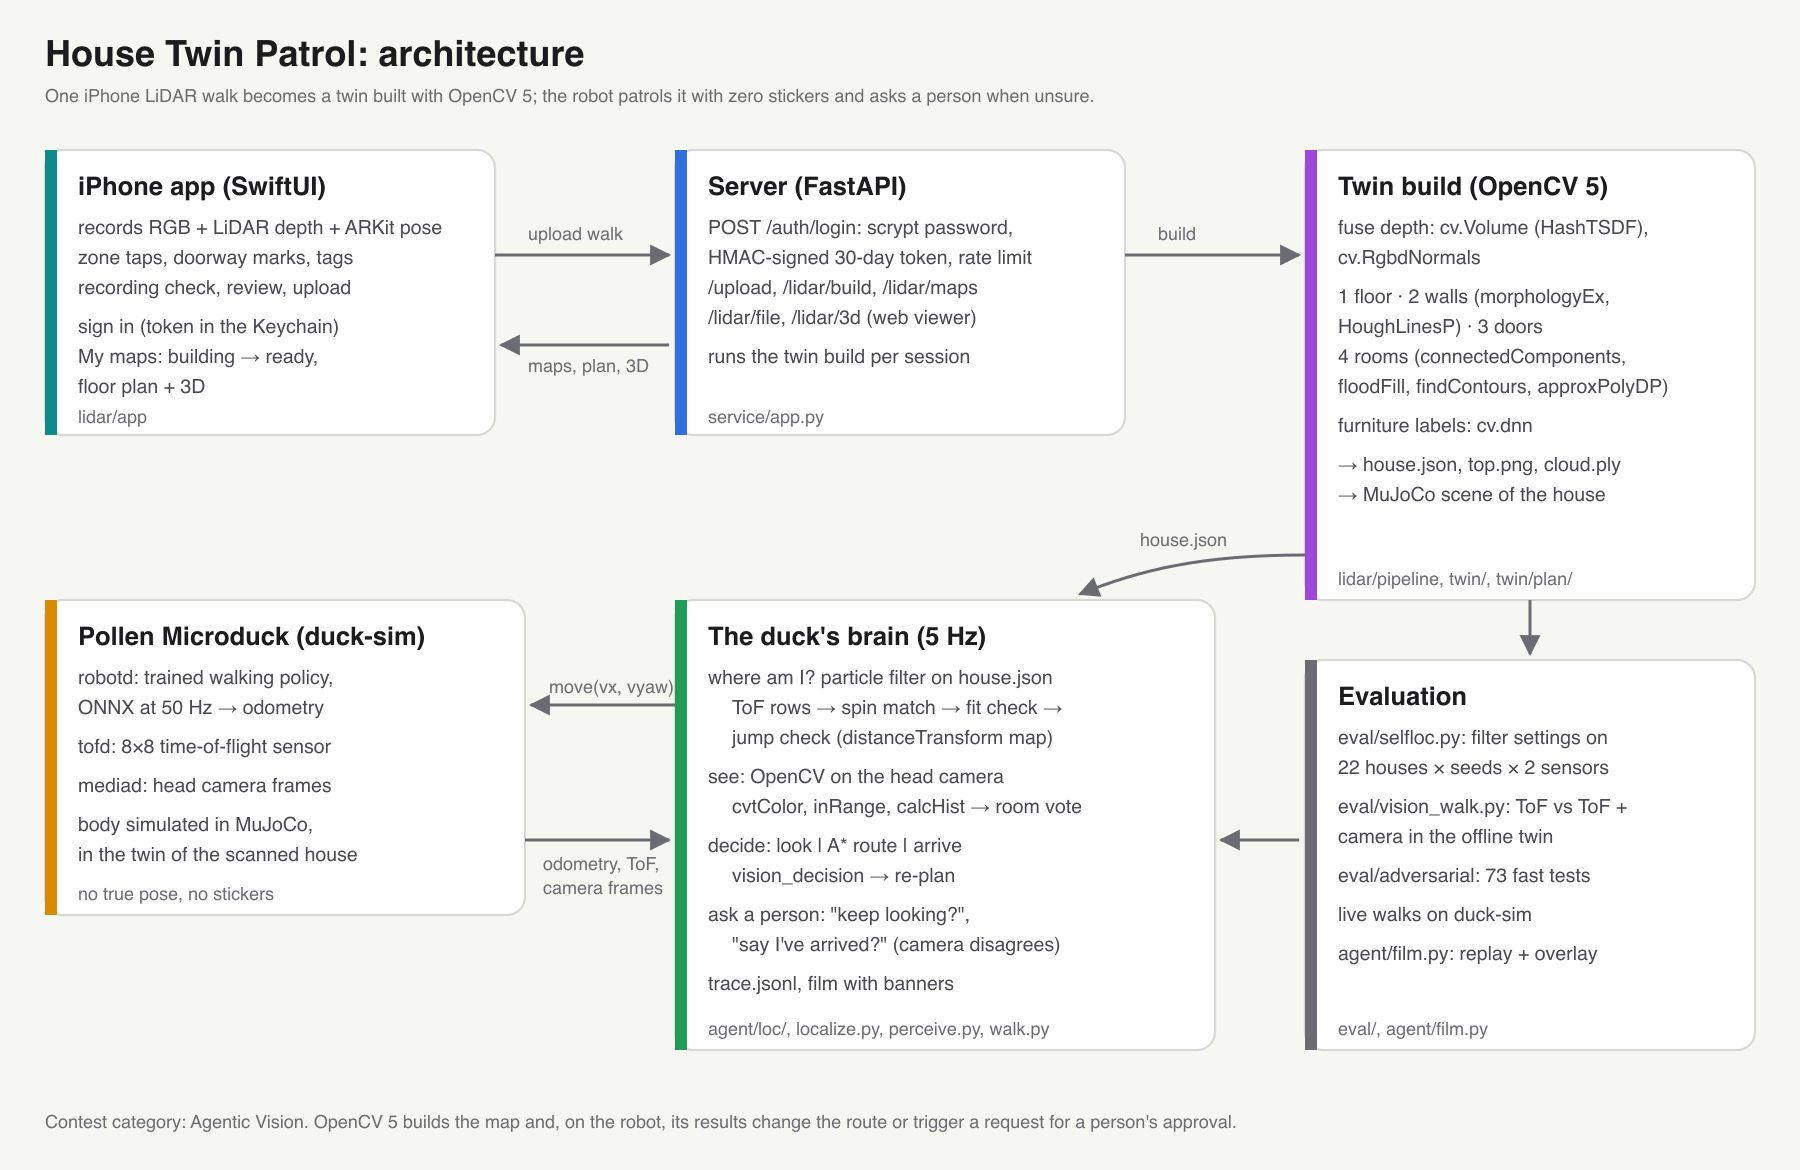
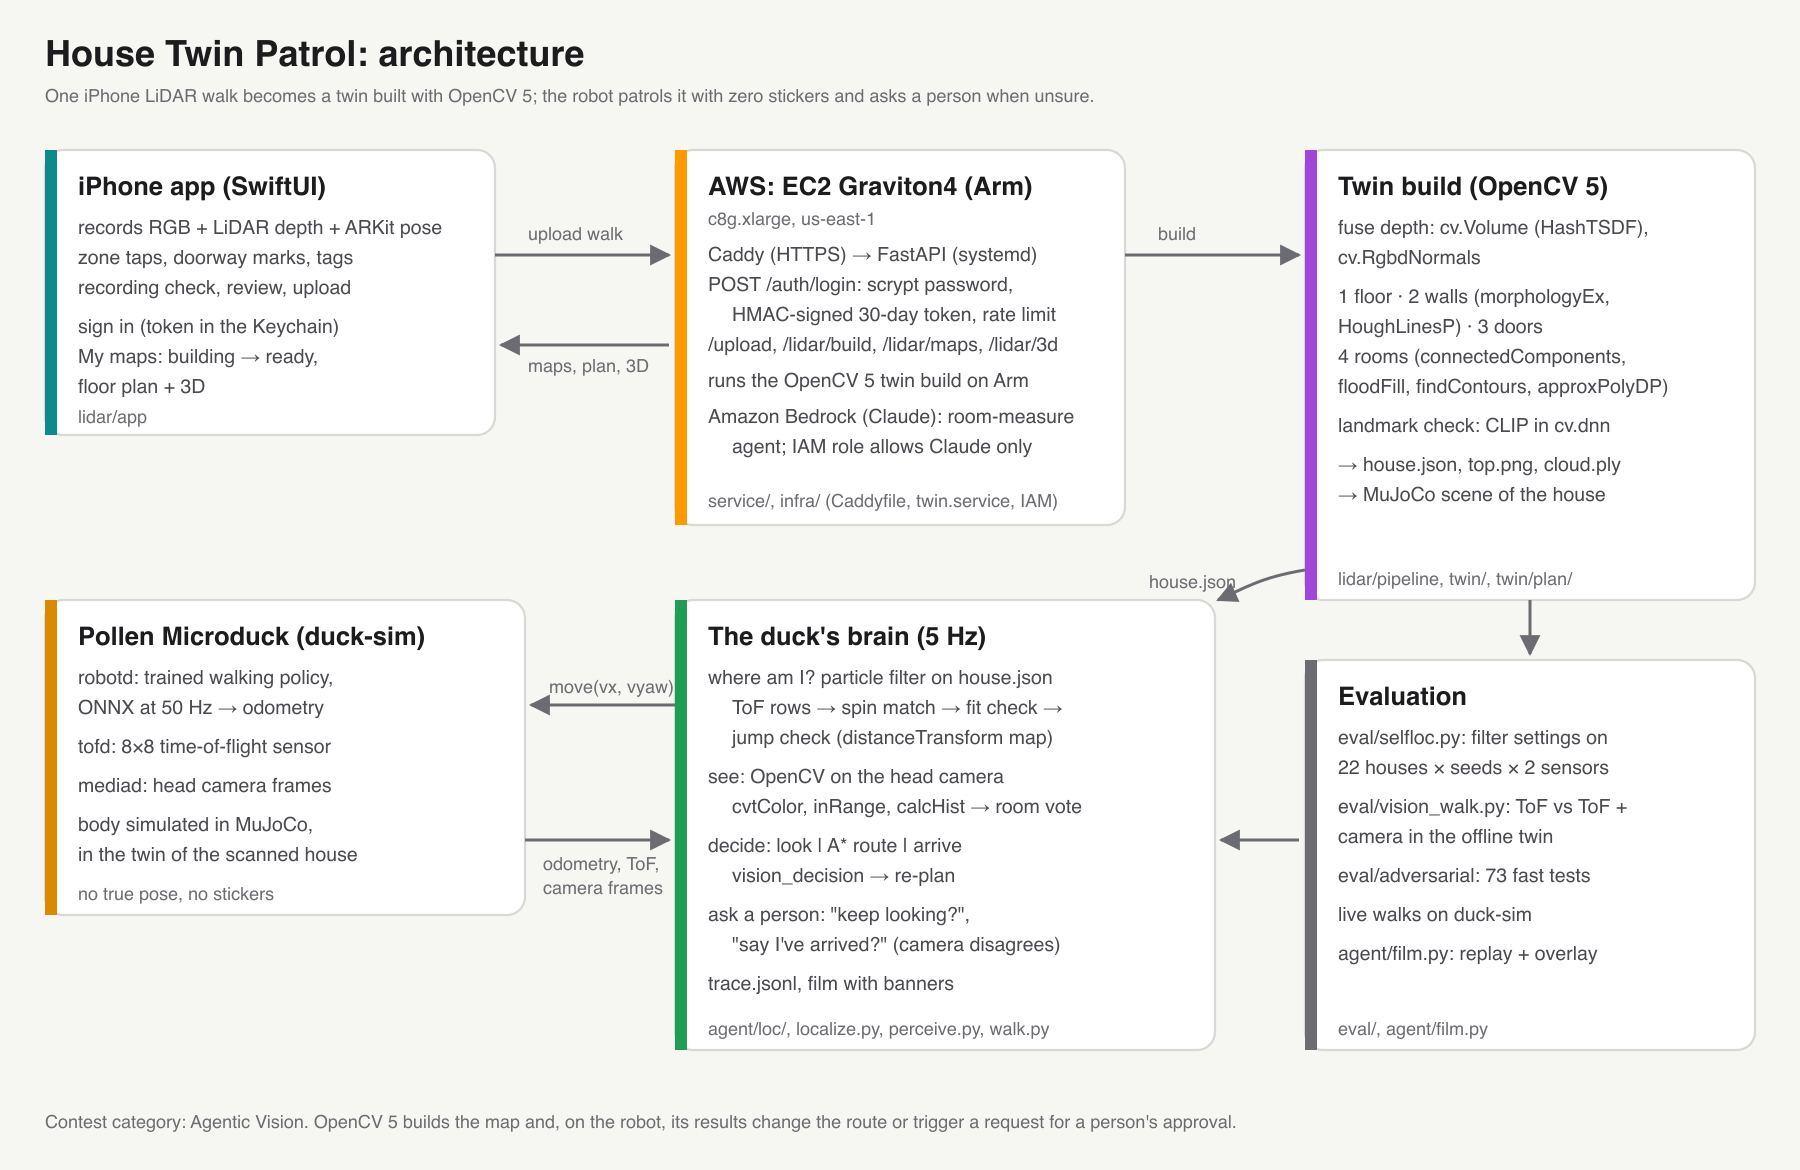
Technical report (REPORT.md), AWS in the architecture diagram, pinned lock files, team intro in the video script

diff --git a/REPORT.md b/REPORT.md
@@ -1,0 +1,152 @@
+# House Twin Patrol: technical report
+
+OpenCV AI Competition 2026 · path: **Agentic Vision with OpenCV 5** (not COOL) · repo: https://github.com/laughtt/house-twin-patrol
+
+## Team
+- **Team name:** Jose Mauricio Carpio (solo entry)
+- **Jose Mauricio Carpio**: design, code, home scans, robot integration, evaluation. *Past hackathons and competitions:
+  (to add).*
+
+## 1. Problem and real-world impact
+Home robots get lost in real homes. Every home is different, robots can't practise in yours before they arrive, and
+the usual fixes (stickers on the walls, beacons, a long mapping run by the robot itself) are what people don't want to
+do. Small robots like Pollen's Microduck (shipping end of 2026) have only an 8×8 depth sensor and a small camera.
+
+House Twin Patrol turns **one walk with an iPhone** into a digital twin of the home (floor plan, rooms, doors, 3D), and
+gives the robot a brain that patrols that home **with zero stickers**: it finds itself, goes to each room, checks
+itself with OpenCV on its own camera, and asks a person when it is unsure.
+
+Impact: a robot that knows "this is the bedroom" from day one can do check-in rounds for someone living alone, go to
+a named room on request, or watch for problems, without the owner mapping or marking anything. The same twin lets
+robot developers test in a copy of a real home before shipping.
+
+## 2. Users and beneficiaries
+- People living alone or with reduced mobility, and their families: a home robot that can do rounds and reach a named
+  room reliably.
+- Owners of small home robots (Microduck and similar) who won't put markers on their walls.
+- Robot developers who need realistic homes to test in (the twin is a MuJoCo scene of the scanned home).
+
+## 3. Architecture
+![Architecture](docs/architecture.svg)
+
+1. **iPhone app** (`lidar/app`, SwiftUI): records RGB, LiDAR depth and the ARKit pose with room taps; sign in; upload;
+   My maps (building → ready, floor plan, 3D).
+2. **Server on AWS** (`service/`, `infra/`): FastAPI behind Caddy (HTTPS) on EC2 Graviton4; login with signed tokens;
+   runs the twin build for each upload.
+3. **Twin build** (`lidar/pipeline`, `twin/`): OpenCV 5 turns the walk into `house.json`, a floor plan and a 3D cloud,
+   and a MuJoCo scene of the home.
+4. **The duck's brain** (`agent/`): the agent loop below, 5 times a second.
+5. **The robot**: Pollen's real robot software (`robotd` with its trained walking policy, `tofd`, `mediad`) driving a
+   simulated body in the MuJoCo twin. The brain only sees odometry, the 8×8 ToF and the camera.
+
+### The agent loop (Agentic Vision)
+![Agent loop on the live walk](docs/agent_loop.gif)
+
+| step | what happens | code |
+|---|---|---|
+| sense | odometry, 8×8 ToF frame, head-camera frame | `agent/walk.py` |
+| locate | particle filter on the twin: ToF rows → spin match (a full turn matched against every place and heading) → fit check (do the zones fit the map from the estimate?) → jump check (a far jump from the trusted pose is a false positive) | `agent/loc/`, `agent/localize.py` |
+| see | OpenCV 5 on the frame: HSV histogram → which room the colours look like → a vote in the filter | `agent/perceive.py` |
+| notice | if the frame changed the decision (look ↔ go, the believed room, the route start), log `vision_decision` and re-plan | `agent/walk.py` |
+| decide | look around / follow an A* route / declare arrival | `agent/walk.py`, `agent/loop.py` |
+| ask | lost 20 s → "keep looking?"; at a goal where the camera's colours name another room → "say I've arrived?" | `agent/walk.py` |
+| act | velocity command to the walking policy | `agent/duck_rpc.py` |
+
+Workflow diagram and trace format: `agent/README.md`.
+
+## 4. OpenCV 5 implementation
+| where | OpenCV 5 | for |
+|---|---|---|
+| depth fusion | `cv.Volume` (HashTSDF), `cv.RgbdNormals` | fuse the LiDAR frames into one cloud with normals |
+| floor | `cv.circle` | the walk's footprint |
+| walls | `cv.morphologyEx`, `cv.dilate`, `cv.HoughLinesP`, `cv.line` | vertical surfaces 1 m tall, glass bridged by Hough lines |
+| rooms | `cv.connectedComponents`, `cv.floodFill`, `cv.findContours`, `cv.approxPolyDP`, `cv.fillPoly` | the floor with doors shut falls apart into rooms |
+| landmarks | `cv.dnn.readNet` (CLIP, ImageNet classifier) | what each candidate object is, whether it moves |
+| the duck's map | `cv.distanceTransform` | distance to the nearest wall: fast ray casts, route clearance |
+| the duck's eye | `cv.cvtColor`, `cv.inRange`, `cv.calcHist` | room colour vote each frame |
+| optional | ArUco `detectMarkers`, `cv.solvePnPGeneric` (IPPE) | marker fixes (`--stickers`), off by default |
+| demo assets | `cv.VideoWriter`, drawing | the film, GIFs, app icon |
+
+Pinned: `opencv-python-headless==5.0.0.93` (`requirements.lock`, `service/requirements.lock`).
+
+## 5. AWS deployment
+| component | service | notes |
+|---|---|---|
+| server | **EC2 Graviton4** (Arm), c8g.xlarge, us-east-1 | FastAPI under systemd (`infra/twin.service`), Caddy auto-HTTPS (`infra/Caddyfile`) at `game.adtomic.co` |
+| twin build | same instance | OpenCV 5 (aarch64 wheels) runs the full build per upload |
+| language model | **Amazon Bedrock** (Claude) | the markerless room-measure agent (`service/v0`); IAM instance role allowing Claude models only (`infra/bedrock-*.json`, `infra/bedrock-role.sh`) |
+| auth | in the app server | scrypt password hash, HMAC-SHA256 30-day tokens, rate limit on failed logins (`service/app.py`, `service/test_auth.py`) |
+
+Not used (yet): S3 for uploads (they stay on the instance disk), autoscaling, CloudWatch dashboards. COOL was not
+pursued: the build runs on stock OpenCV 5 on Graviton, with no COOL baseline measured.
+
+**Judge access:** web endpoint `https://game.adtomic.co` (app login: user `judge`, password in the submission form);
+code and instructions in this repo; a live screen-share of the robot walk on request.
+
+## 6. Build, deploy, test
+```
+scripts/demo.sh offline              # self-location sandbox, camera test, fast tests (no robot)
+scripts/demo.sh live [house] [--ask] # live walk on Pollen's duck-sim with the camera, then the film
+scripts/demo.sh server               # the server locally
+scripts/demo.sh app                  # the Xcode project
+```
+Dependencies: `requirements.lock` (sim, brain, eval), `service/requirements.lock` (server), XcodeGen `project.yml`
+(app). Server deploy and the judge account: `lidar/app/README.md`. Full walkthrough: `DEMO.md`.
+
+## 7. Evaluation
+**Self-location, 22 houses × 4 seeds × 2 sensors** (`eval/selfloc.py`; "rough" = 2.5 m range, 20 % dropped zones):
+
+| | old filter (sim / rough) | final (sim / rough) |
+|---|---|---|
+| runs that locked onto a wrong place | 63 / 89 of 96 | 1 / 3 of 96 |
+| false arrivals | 10 / 56 | 0 / 0 |
+| goals reached | 82 % / 51 % | 94 % / 94 % |
+| bumps | 803 / 1390 | 267 / 305 |
+
+**Live, Pollen's robot software in the twin, 4 rooms, zero stickers, ToF + camera only** (`out/walk/<house>/`):
+
+| | old filter | final |
+|---|---|---|
+| rooms reached | 4/4 | 4/4 |
+| until sure and right | 61 s | 7.8 s |
+| time sure but more than 50 cm off | 17.7 % | 0 % |
+| right room when sure | 98.5 % | 98.7 % |
+| distance from goal at arrival | – | 13–30 cm |
+| camera decisions changed / questions asked | – | 4 / 2 |
+
+**Camera in the offline twin** (`eval/vision_walk.py`, 16 starts × 3 goals): 48/48 goals with ToF alone and with the
+camera; 16 decisions changed by the camera; at arrival the 5 s colour vote names the true room 45 of 48 times; with a
+person who always says no, 5 questions and still 48/48 (the check passes later).
+
+**Fast tests:** 72 of 73 adversarial tests pass (`eval/adversarial`).
+
+**Observability:** every step and event is in `trace.jsonl`; `agent/film.py` replays it with the chase camera, the
+duck's eye, the map (truth vs belief) and banners for vision decisions and questions (`docs/robot_walk.gif`).
+
+## 8. Failure cases and limitations
+- **Live-only failures found and fixed:** the walking policy sways ~58 cm a turn (the spin scan restarted every turn);
+  stale fit history threw away a correct match; head wobble; walking pitches the head so the ToF hits the floor. A first
+  version of the jump check reset and re-turned on every jump; live, it got lost for ~150 s and the walking policy fell
+  over (dropped).
+- **Rooms that look alike to the ToF**, and glass walls it sees through, can still give a wrong *first* match (4 of
+  192 sandbox runs); the one failing fast test is a pair of twin rooms told apart only by a TV. Camera place recognition
+  would be the fix.
+- **The camera's room vote is weak live:** 46 % of single frames right (75 % in the twin): the colour fingerprints come
+  from the twin's renders, not the head camera.
+- **Markers:** ending the spin match on an ArUco sighting cost goals (48 → 32 of 48); markers are off by default.
+- **Simulated body:** the robot software and walking policy are real; the body, sensors and house are simulated.
+- **Camera cost:** brain time per step goes from 20 to 57 ms with the camera.
+- **One shared account** on the server; uploads stay on one instance.
+
+## 9. Responsible use
+- **Privacy:** home scans are private by default: uploads are behind the login, raw frames and recordings are never in
+  the repo (`data/`, `out/` are git-ignored). The images in this repo are renders of the author's own home, shared by
+  choice; they show no people.
+- **Human control:** the robot asks before going on when lost, and before claiming an arrival the camera disagrees
+  with; a "no" stops it or makes it check again. Every decision and answer is logged.
+- **Safety:** slow speeds (the brain asks for at most 0.25 m/s; the walking policy covers about 40 % of that), creeping
+  through doors, backing off after a bump.
+- **Licences:** Pollen's Microduck meshes (CC BY-NC-SA 4.0) and model weights are not redistributed; the robot software
+  is Pollen's, used as is. Credit to Pollen Robotics.
+- **AI assistance:** parts of the code were written with an AI coding assistant (Claude Code); the agentic workflow
+  claimed here is the robot's own loop, not the coding assistant.

diff --git a/docs/VIDEO_SCRIPT.md b/docs/VIDEO_SCRIPT.md
@@ -1,18 +1,24 @@
 # 3-minute video script
 
-About 390 words of voice-over (~2:45 at 140 words a minute, room for pauses). Every number below is measured (DEMO.md).
+About 400 words of voice-over (~2:50 at 140 words a minute). The rules require the team on camera: the first 10 s. Every number below is measured (DEMO.md).
 Clip times in the live film refer to `out/walk/selfloc_live_camera/walk_2x.mp4` (2× speed, 3:34 long).
 
 ## Shot list and voice-over
 
-### 0:00–0:15 · Hook
+### 0:00–0:10 · The team (required by the rules)
+**Show:** Jose Mauricio Carpio on camera (webcam or phone), at home.
+**On screen:** "Jose Mauricio Carpio · House Twin Patrol · OpenCV AI Competition 2026"
+**Say (own voice):**
+> Hi, I'm Jose Mauricio Carpio, and this is House Twin Patrol.
+
+### 0:10–0:22 · Hook
 **Show:** live film 0:00–0:06 (the duck turns on the spot, the "sure" bar fills), then a title card: *House Twin Patrol*.
 **On screen:** "No stickers. No GPS. One iPhone walk."
 **Say:**
 > This little robot has never been told where it is. No stickers on the walls, no beacons. In eight seconds it will know
 > which room it's in, to within centimetres, using a map we built with one walk and an iPhone.
 
-### 0:15–0:45 · The app
+### 0:22–0:45 · The app
 **Show:** `docs/app_screens.jpg`, panning left to right (sign in → My maps → floor plan → 3D). Better: a screen
 recording on a LiDAR iPhone of a short recording, Upload, and My maps switching from "Building" to "Ready".
 **On screen:** "Record → Upload → Ready"

diff --git a/README.md b/README.md
@@ -3,9 +3,9 @@
 One iPhone LiDAR walk of a home becomes a digital twin (floor plan, rooms, doors, 3D) built with **OpenCV 5**. Pollen's
 Microduck robot then patrols that home with **zero stickers**: it knows where it is from its 8×8 depth sensor and the
 twin, checks itself with OpenCV on its own camera, and asks a person when it is unsure. Contest category: **Agentic
-Vision** (OpenCV AI Competition 2026).
+Vision** (OpenCV AI Competition 2026). Team: Jose Mauricio Carpio.
 
-**Run it: `scripts/demo.sh offline | live | server | app`. Full walkthrough, commands, results and limits: [DEMO.md](DEMO.md).** The agent loop and its trace: [agent/README.md](agent/README.md).
+**Technical report: [REPORT.md](REPORT.md).** **Run it: `scripts/demo.sh offline | live | server | app`. Full walkthrough, commands, results and limits: [DEMO.md](DEMO.md).** The agent loop and its trace: [agent/README.md](agent/README.md).
 
 ![Architecture](docs/architecture.svg)
 
